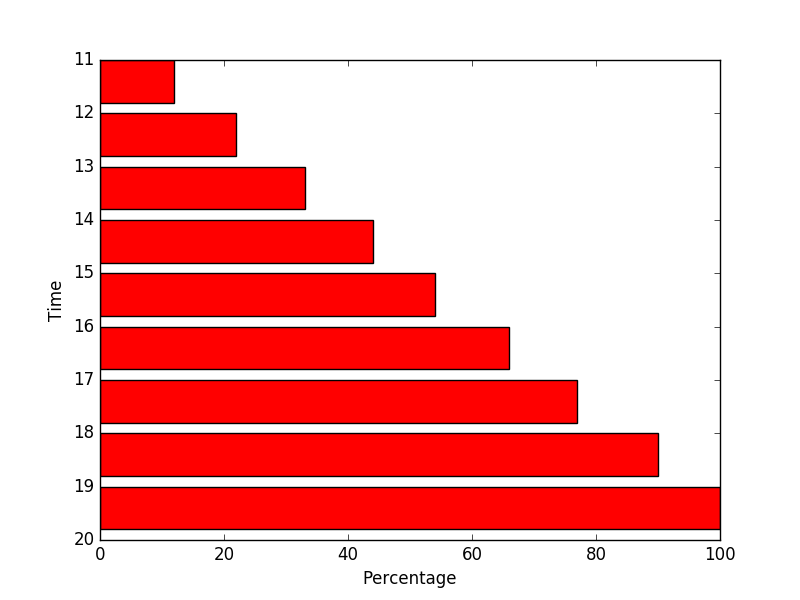
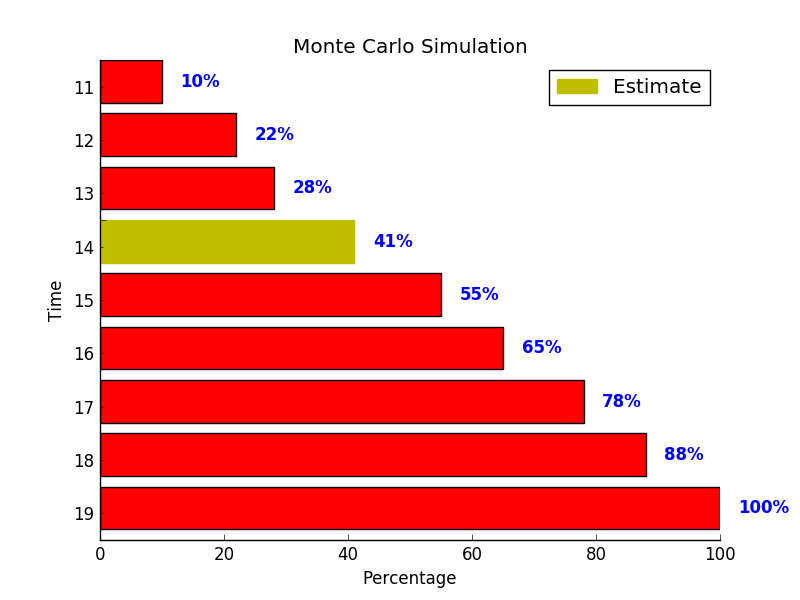
Add estimate to chart
Made chart prettier

diff --git a/src/montecarlo.py b/src/montecarlo.py
@@ -1,7 +1,11 @@
 import random
 import json
 import os
+import math
 import matplotlib.pyplot as plt
+
+from prettytable import PrettyTable
+from matplotlib.patches import Rectangle
 from collections import OrderedDict
 
 SIMULATION_RUN_COUNT = 500
@@ -27,10 +31,12 @@ def get_totals(tasks):
     '''
     maximum = 0
     minimum = 0
+    estimate = 0
     for task in tasks:
         minimum += task["minimum"]
         maximum += task["maximum"]
-    return minimum, maximum
+        estimate += task["estimate"]
+    return minimum, maximum, estimate
 
 
 def run_simulation(minimum, maximum):
@@ -53,41 +59,68 @@ def run_simulation(minimum, maximum):
     return ordered_sim_result
 
 
-def save_graph(result):
+def save_graph(result, estimate):
     '''
     Plots and then saves graph of results
     '''
+    plt.style.use('classic')
     fig, ax = plt.subplots()
-    ax.barh(list(result.keys()), [sim_result["percentage"] for sim_result in result.values()], color='r')
+    ax.spines['top'].set_visible(False)
+    ax.spines['right'].set_visible(False)
+    ax.yaxis.set_ticks_position('left')
+    ax.xaxis.set_ticks_position('bottom')
 
+    # Set up legend
+    estimateKey = Rectangle((0,0), 0.5, 0.5, color='y')
+    ax.legend([estimateKey], ["Estimate"])
+
+    x_values = list(result.keys())
+    y_values = [sim_result["percentage"] for sim_result in result.values()]
+    bars = ax.barh(x_values, y_values, color='r')
+    for bar in bars:
+        if math.floor(bar.get_y()) == estimate:
+            bar.set_color('y')
+    for i, value in enumerate(y_values):
+        ax.text(value + 3, x_values[i] + 0.5, "{}%".format(str(value)), color='blue', fontweight='bold')
+
+    # Hide major tick labels
+    ax.set_yticklabels('')
+
+    # Customize minor tick labels to place in center
+    ax.set_yticks([sim_result + 0.5 for sim_result in result], minor=True)
+    ax.set_yticklabels([sim_result for sim_result in result], minor=True)
+
+    plt.gca().invert_yaxis()
+    plt.title('Monte Carlo Simulation')
     plt.xlabel('Percentage')
     plt.ylabel('Time')
-    plt.gca().invert_yaxis()
+
+
     plt.savefig(os.path.join(OUTPUT_DIR, 'chart.png'))
 
 
-def create_table(result):
+def create_table(result, estimate):
     '''
     Saves a pretty printed table output of the results
     '''
-    try:
-        from prettytable import PrettyTable
-        table = PrettyTable()
-        table.add_column("Time", list(result.keys()))
-        table.add_column("Number of times (Out of {})".format(SIMULATION_RUN_COUNT), [sim_result["number"] for sim_result in result.values()])
-        table.add_column("Percent of total (rounded)", [sim_result["percentage"] for sim_result in result.values()])
-        with open(os.path.join(OUTPUT_DIR, 'table.txt'), 'w') as f:
-            print(table, file=f)
-        return table
-    except ImportError:
-        print("No pretty table as module not installed.\n See table.txt for previuosly generated example")
+    table = PrettyTable()
+    is_estimate = []
+    for sim_result in result:
+        is_estimate.append("X") if sim_result == estimate else is_estimate.append("")
+    table.add_column("Time", list(result.keys()))
+    table.add_column("Number of times (Out of {})".format(SIMULATION_RUN_COUNT), [sim_result["number"] for sim_result in result.values()])
+    table.add_column("Percent of total (rounded)", [sim_result["percentage"] for sim_result in result.values()])
+    table.add_column("Estimate", is_estimate)
+    with open(os.path.join(OUTPUT_DIR, 'table.txt'), 'w') as f:
+        print(table, file=f)
+    return table
 
 
 if __name__ == '__main__':
     tasks_file = os.path.join(DATA_DIR, 'tasks.json')
     tasks = load_json_file(tasks_file)
-    minimum, maximum = get_totals(tasks)
+    minimum, maximum, estimate = get_totals(tasks)
     result = run_simulation(minimum, maximum)
-    save_graph(result)
-    table = create_table(result)
+    save_graph(result, estimate)
+    table = create_table(result, estimate)
     print(table)

diff --git a/tests/Test_Monte_Carlo.py b/tests/Test_Monte_Carlo.py
@@ -8,13 +8,14 @@ class TestMonteCarlo(unittest.TestCase):
     def test_get_totals(self):
         """Does the get_totals function sum values correctly?"""
         tasks = [
-            {"minimum": 1, "maximum": 2},
-            {"minimum": 3, "maximum": 4},
-            {"minimum": 5, "maximum": 6}
+            {"minimum": 1, "maximum": 2, "estimate": 3},
+            {"minimum": 4, "maximum": 5, "estimate": 6},
+            {"minimum": 7, "maximum": 8, "estimate": 9},
             ]
-        minimum, maximum = get_totals(tasks)
-        self.assertEqual(minimum, 9)
-        self.assertEqual(maximum, 12)
+        minimum, maximum, estimate = get_totals(tasks)
+        self.assertEqual(minimum, 12)
+        self.assertEqual(maximum, 15)
+        self.assertEqual(estimate, 18)
 
     def test_simulation_ordered(self):
         """Is the result of the simulation ordered?"""
